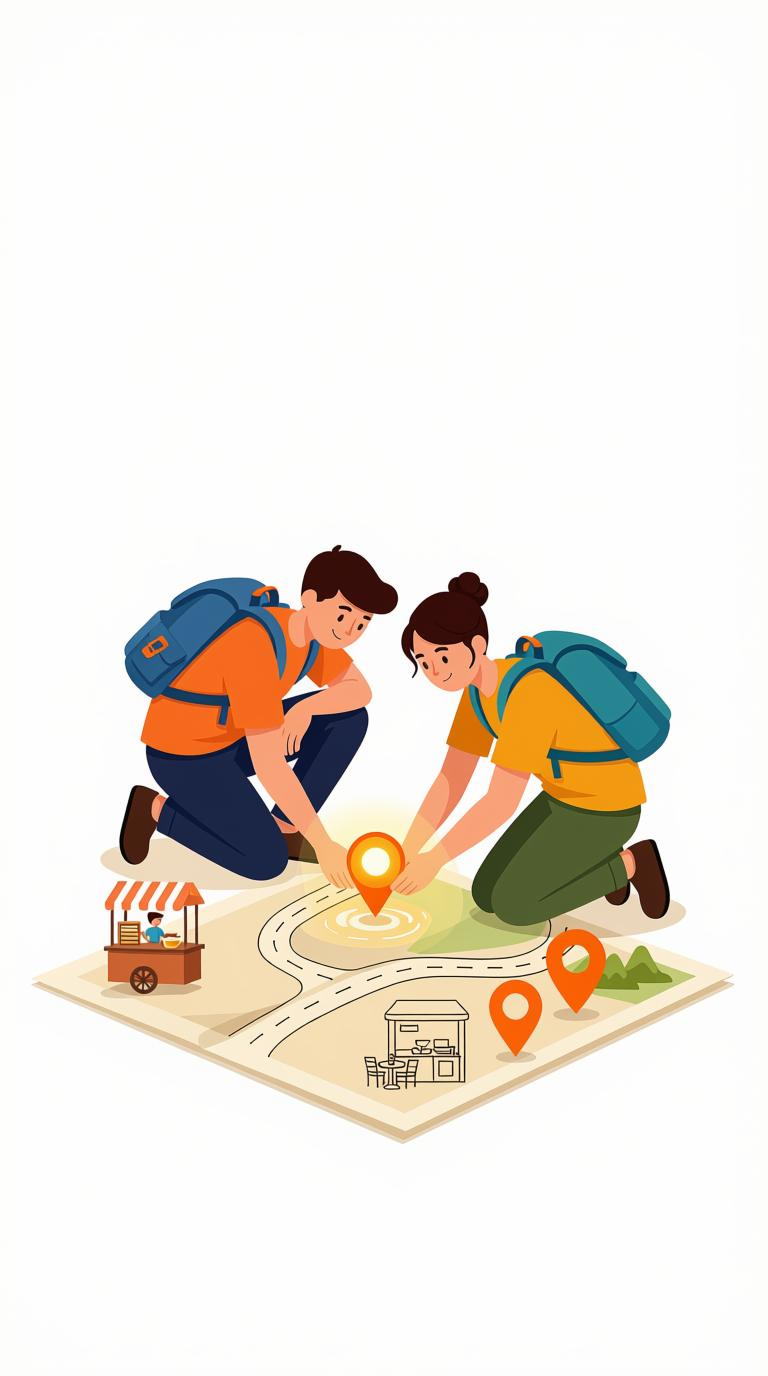
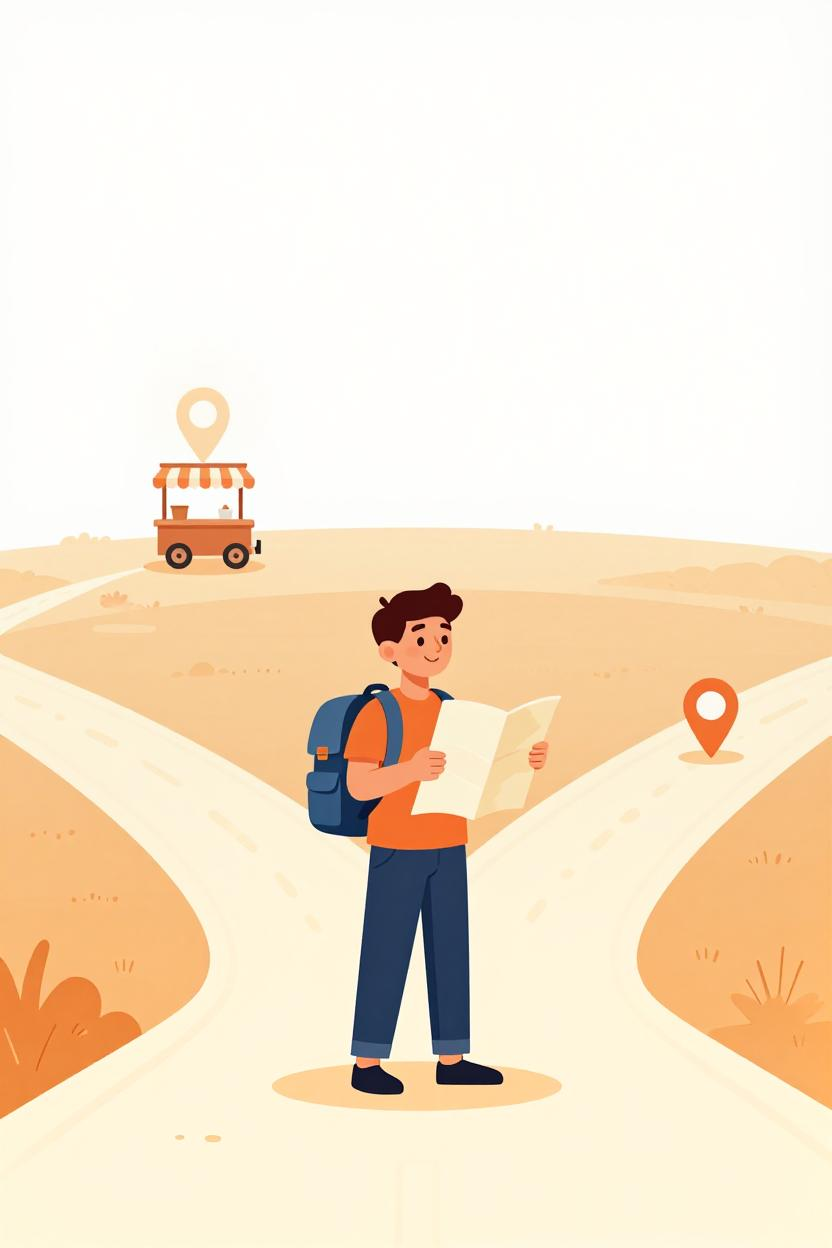
full-screen onboarding with swipe, exit transition, revised copy and artwork

diff --git a/app/page.tsx b/app/page.tsx
@@ -490,6 +490,7 @@ const [onboardingStep, setOnboardingStep] = useState(0);
   const notifiedSpotIdsRef = useRef<Set<string>>(new Set());
   const lastNearbyCheckRef = useRef<number>(0);
 const [slideDirection, setSlideDirection] = useState<'forward' | 'back'>('forward');
+  const [isOnboardingExiting, setIsOnboardingExiting] = useState(false);
   const [isAuthModalOpen, setIsAuthModalOpen] = useState(false);
   const [isProfileModalOpen, setIsProfileModalOpen] = useState(false);
   const [isProfileClosing, setIsProfileClosing] = useState(false);
@@ -2724,6 +2725,14 @@ const [slideDirection, setSlideDirection] = useState<'forward' | 'back'>('forwar
 @keyframes onboardingHintPulse {
   0%, 100% { transform: translateX(0); opacity: 0.85; }
   50% { transform: translateX(5px); opacity: 1; }
+}
+@keyframes onboardingFadeScaleOut {
+  from { opacity: 1; transform: scale(1) translateZ(0); }
+  to { opacity: 0; transform: scale(1.06) translateZ(0); }
+}
+@keyframes onboardingImgFloat {
+  0%, 100% { transform: translateY(0) translateZ(0); }
+  50% { transform: translateY(-8px) translateZ(0); }
 }
 .animate-slide-up {
           animation: slideUp 0.28s cubic-bezier(0.16, 1, 0.3, 1) both;
@@ -5471,169 +5480,184 @@ const [slideDirection, setSlideDirection] = useState<'forward' | 'back'>('forwar
         </div>
       )}
 
-      {/* Welcome / Onboarding Carousel */}
-{showWelcome && (() => {
-  const ONBOARDING_STEPS = [
-    {
-      image: '/onboarding-1.png',
-      title: 'Welcome to Bywayr',
-      body: 'Your Pocket Field Guide — a quiet map for travelers, expats, and wanderers to discover, pin, and share the unmapped local spots guidebooks overlook.',
-    },
-    {
-      image: '/onboarding-2.png',
-      title: 'Curate Unmapped Corners',
-      body: 'Plot backstreet food stalls, hidden viewpoints, and quiet neighborhood treasures that standard maps miss.',
-    },
-    {
-      image: '/onboarding-3.png',
-      title: 'Collect Passport Stamps',
-      body: 'Build your personal passport, track your cities, and map your footprint across every country you explore.',
-    },
-  ];
+            {/* Welcome / Onboarding Carousel — full screen */}
+      {showWelcome && (() => {
+        const ONBOARDING_STEPS = [
+          {
+            image: '/onboarding-1.png',
+            title: 'The map guidebooks forgot',
+            body: 'Bywayr is a pocket field guide for the places nobody bothers to map — pin your finds, discover other locals\' secrets, and keep the good spots alive.',
+          },
+          {
+            image: '/onboarding-2.png',
+            title: 'Pin what maps miss',
+            body: 'Backstreet food stalls, hidden viewpoints, quiet neighborhood corners — plot the spots you know and browse what others have curated near you.',
+          },
+          {
+            image: '/onboarding-3.png',
+            title: 'Build your footprint',
+            body: 'Every spot you visit earns a passport stamp. Track your cities and countries as your collection of unmapped places grows.',
+          },
+        ];
 
-  const isLastStep = onboardingStep === ONBOARDING_STEPS.length - 1;
-  const step = ONBOARDING_STEPS[onboardingStep];
+        const isLastStep = onboardingStep === ONBOARDING_STEPS.length - 1;
+        const step = ONBOARDING_STEPS[onboardingStep];
 
-  const goToNext = () => {
-    if (isLastStep) {
-      triggerHaptic(10);
-      dismissModalWithHistory(handleDismissWelcome);
-    } else {
-      triggerHaptic(6);
-      setSlideDirection('forward');
-      setOnboardingStep((prev) => prev + 1);
-    }
-  };
+        const finishOnboarding = () => {
+          triggerHaptic(12);
+          setIsOnboardingExiting(true);
+          setTimeout(() => {
+            dismissModalWithHistory(handleDismissWelcome);
+            setTimeout(() => setIsOnboardingExiting(false), 400);
+          }, 450);
+        };
 
-  const goToPrev = () => {
-    if (onboardingStep > 0) {
-      triggerHaptic(6);
-      setSlideDirection('back');
-      setOnboardingStep((prev) => prev - 1);
-    }
-  };
+        const goToNext = () => {
+          if (isLastStep) { finishOnboarding(); return; }
+          triggerHaptic(6);
+          setSlideDirection('forward');
+          setOnboardingStep((prev) => prev + 1);
+        };
 
-  return (
-    <div
-      className="animate-fade-in"
-      onClick={(e) => {
-        if (isLastStep) return;
-        const rect = e.currentTarget.getBoundingClientRect();
-        const tapX = e.clientX - rect.left;
-        if (tapX > rect.width * 0.35) goToNext();
-        else goToPrev();
-      }}
-      style={{ position: 'fixed', inset: 0, backgroundColor: 'rgba(28, 25, 23, 0.6)', backdropFilter: 'blur(6px)', WebkitBackdropFilter: 'blur(6px)', display: 'flex', alignItems: 'center', justifyContent: 'center', zIndex: 100030, padding: '16px' }}
-    >
-      <div
-        className="animate-scale-up"
-        style={{ backgroundColor: '#ffffff', borderRadius: '28px', boxShadow: '0 25px 50px -12px rgba(28, 25, 23, 0.35)', width: '100%', maxWidth: '380px', position: 'relative', textAlign: 'center', boxSizing: 'border-box', overflow: 'hidden', display: 'flex', flexDirection: 'column' }}
-      >
-        <div
-          key={onboardingStep}
-          style={{
-            animation: `${slideDirection === 'forward' ? 'onboardingSlideInForward' : 'onboardingSlideInBack'} 0.32s cubic-bezier(0.16, 1, 0.3, 1) both`,
-            padding: '22px 22px 0 22px',
-          }}
-        >
-          <div style={{ width: '100%', aspectRatio: '3 / 4', maxHeight: '46vh', borderRadius: '18px', overflow: 'hidden', backgroundColor: '#ffffff' }}>
-            <img src={step.image} alt={step.title} style={{ width: '100%', height: '100%', objectFit: 'contain', display: 'block' }} />
-          </div>
-        </div>
+        const goToPrev = () => {
+          if (onboardingStep > 0) {
+            triggerHaptic(6);
+            setSlideDirection('back');
+            setOnboardingStep((prev) => prev - 1);
+          }
+        };
 
-        <div
-          key={`text-${onboardingStep}`}
-          style={{ padding: '14px 24px 6px 24px', animation: `${slideDirection === 'forward' ? 'onboardingSlideInForward' : 'onboardingSlideInBack'} 0.32s cubic-bezier(0.16, 1, 0.3, 1) 0.05s both` }}
-        >
-          <h3 style={{ margin: '0 0 6px 0', fontSize: '18px', fontWeight: 800, color: '#1c1917', letterSpacing: '-0.02em' }}>
-            {step.title}
-          </h3>
-          <p style={{ margin: 0, fontSize: '12.5px', color: '#78716c', lineHeight: 1.5 }}>
-            {step.body}
-          </p>
-        </div>
+        const touchStartXRef = { current: 0 } as { current: number };
 
-        <div style={{ display: 'flex', alignItems: 'center', justifyContent: 'center', gap: '7px', padding: '16px 0 8px 0' }}>
-          {ONBOARDING_STEPS.map((_, idx) => (
+        return (
+          <div
+            className="animate-fade-in"
+            onTouchStart={(e) => { touchStartXRef.current = e.touches[0].clientX; }}
+            onTouchEnd={(e) => {
+              const dx = e.changedTouches[0].clientX - touchStartXRef.current;
+              if (Math.abs(dx) > 50) { if (dx < 0) goToNext(); else goToPrev(); }
+            }}
+            style={{ position: 'fixed', inset: 0, zIndex: 100030, backgroundColor: '#ffffff', display: 'flex', flexDirection: 'column', opacity: isOnboardingExiting ? 0 : 1, transform: isOnboardingExiting ? 'scale(1.05)' : 'scale(1)', transition: 'opacity 0.45s cubic-bezier(0.16, 1, 0.3, 1), transform 0.45s cubic-bezier(0.16, 1, 0.3, 1)' }}
+          >
             <div
-              key={idx}
-              onClick={(e) => {
-                e.stopPropagation();
-                if (idx === onboardingStep) return;
-                triggerHaptic(6);
-                setSlideDirection(idx > onboardingStep ? 'forward' : 'back');
-                setOnboardingStep(idx);
-              }}
+              key={onboardingStep}
               style={{
-                width: idx === onboardingStep ? '18px' : '7px',
-                height: '7px',
-                borderRadius: '4px',
-                backgroundColor: idx === onboardingStep ? '#e05a47' : '#e7e5e4',
-                cursor: 'pointer',
-                transition: 'width 0.25s cubic-bezier(0.16, 1, 0.3, 1), background-color 0.25s ease',
+                flex: 1,
+                display: 'flex',
+                alignItems: 'center',
+                justifyContent: 'center',
+                paddingTop: 'max(env(safe-area-inset-top, 0px), 24px)',
+                animation: `${slideDirection === 'forward' ? 'onboardingSlideInForward' : 'onboardingSlideInBack'} 0.35s cubic-bezier(0.16, 1, 0.3, 1) both`,
               }}
-            />
-          ))}
-        </div>
+            >
+              <div style={{ width: '86%', maxWidth: '420px', animation: 'onboardingImgFloat 4s ease-in-out infinite' }}>
+                <img src={step.image} alt={step.title} style={{ width: '100%', height: 'auto', display: 'block', objectFit: 'contain' }} />
+              </div>
+            </div>
 
-        <div style={{ padding: '6px 20px 20px 20px', display: 'flex', flexDirection: 'column', gap: '10px' }}>
-          {isLastStep ? (
-            <button
-              onClick={(e) => {
-                e.stopPropagation();
-                triggerHaptic(10);
-                dismissModalWithHistory(handleDismissWelcome);
-              }}
-              style={{
-                width: '100%',
-                backgroundColor: '#1c1917',
-                color: '#ffffff',
-                border: 'none',
-                borderRadius: '14px',
-                padding: '13px',
-                fontSize: '13px',
-                fontWeight: 700,
-                cursor: 'pointer',
-                display: 'flex',
-                alignItems: 'center',
-                justifyContent: 'center',
-                gap: '6px',
-                boxShadow: '0 4px 12px rgba(28, 25, 23, 0.2)',
-              }}
+            <div
+              key={`text-${onboardingStep}`}
+              style={{ padding: '10px 32px 0 32px', textAlign: 'center', animation: `${slideDirection === 'forward' ? 'onboardingSlideInForward' : 'onboardingSlideInBack'} 0.32s cubic-bezier(0.16, 1, 0.3, 1) 0.06s both` }}
             >
-              Open the Field Guide <ArrowRight style={{ width: '15px', height: '15px' }} />
-            </button>
-          ) : (
-            <button
-              onClick={(e) => {
-                e.stopPropagation();
-                goToNext();
-              }}
-              style={{
-                width: '100%',
-                backgroundColor: 'transparent',
-                color: '#a8a29e',
-                border: 'none',
-                borderRadius: '14px',
-                padding: '10px',
-                fontSize: '12px',
-                fontWeight: 600,
-                cursor: 'pointer',
-                display: 'flex',
-                alignItems: 'center',
-                justifyContent: 'center',
-                gap: '5px',
-                animation: 'onboardingHintPulse 1.6s ease-in-out infinite',
-              }}
-            >
-              Tap to continue <ArrowRight style={{ width: '14px', height: '14px' }} />
-            </button>
-          )}
-        </div>
-      </div>
-    </div>
-    );
-})()}
+              <h3 style={{ margin: '0 0 8px 0', fontSize: '24px', fontWeight: 800, color: '#1c1917', letterSpacing: '-0.02em' }}>
+                {step.title}
+              </h3>
+              <p style={{ margin: 0, fontSize: '14px', color: '#78716c', lineHeight: 1.55 }}>
+                {step.body}
+              </p>
+            </div>
+
+            <div style={{ display: 'flex', alignItems: 'center', justifyContent: 'center', gap: '8px', padding: '26px 0 14px 0' }}>
+              {ONBOARDING_STEPS.map((_, idx) => (
+                <div
+                  key={idx}
+                  onClick={(e) => {
+                    e.stopPropagation();
+                    if (idx === onboardingStep) return;
+                    triggerHaptic(6);
+                    setSlideDirection(idx > onboardingStep ? 'forward' : 'back');
+                    setOnboardingStep(idx);
+                  }}
+                  style={{
+                    width: idx === onboardingStep ? '22px' : '8px',
+                    height: '8px',
+                    borderRadius: '4px',
+                    backgroundColor: idx === onboardingStep ? '#e05a47' : '#e7e5e4',
+                    cursor: 'pointer',
+                    transition: 'width 0.25s cubic-bezier(0.16, 1, 0.3, 1), background-color 0.25s ease',
+                  }}
+                />
+              ))}
+            </div>
+
+            <div style={{ padding: '6px 24px calc(max(env(safe-area-inset-bottom, 0px), 20px) + 12px) 24px', display: 'flex', flexDirection: 'column', gap: '10px' }}>
+              {isLastStep ? (
+                <button
+                  onClick={(e) => { e.stopPropagation(); finishOnboarding(); }}
+                  style={{
+                    width: '100%',
+                    backgroundColor: '#1c1917',
+                    color: '#ffffff',
+                    border: 'none',
+                    borderRadius: '16px',
+                    padding: '15px',
+                    fontSize: '14px',
+                    fontWeight: 700,
+                    cursor: 'pointer',
+                    display: 'flex',
+                    alignItems: 'center',
+                    justifyContent: 'center',
+                    gap: '7px',
+                    boxShadow: '0 6px 16px rgba(28, 25, 23, 0.22)',
+                  }}
+                >
+                  Open the Field Guide <ArrowRight style={{ width: '16px', height: '16px' }} />
+                </button>
+              ) : (
+                <div style={{ display: 'flex', gap: '10px' }}>
+                  <button
+                    onClick={(e) => { e.stopPropagation(); goToPrev(); }}
+                    style={{
+                      backgroundColor: 'transparent',
+                      color: '#a8a29e',
+                      border: 'none',
+                      borderRadius: '16px',
+                      padding: '14px 18px',
+                      fontSize: '13px',
+                      fontWeight: 700,
+                      cursor: onboardingStep === 0 ? 'default' : 'pointer',
+                      opacity: onboardingStep === 0 ? 0.35 : 1,
+                    }}
+                  >
+                    Back
+                  </button>
+                  <button
+                    onClick={(e) => { e.stopPropagation(); goToNext(); }}
+                    style={{
+                      flex: 1,
+                      backgroundColor: '#1c1917',
+                      color: '#ffffff',
+                      border: 'none',
+                      borderRadius: '16px',
+                      padding: '14px',
+                      fontSize: '14px',
+                      fontWeight: 700,
+                      cursor: 'pointer',
+                      display: 'flex',
+                      alignItems: 'center',
+                      justifyContent: 'center',
+                      gap: '6px',
+                      boxShadow: '0 4px 12px rgba(28, 25, 23, 0.18)',
+                    }}
+                  >
+                    Next <ArrowRight style={{ width: '15px', height: '15px' }} />
+                  </button>
+                </div>
+              )}
+            </div>
+          </div>
+        );
+      })()}
     </div>
   );
 }
